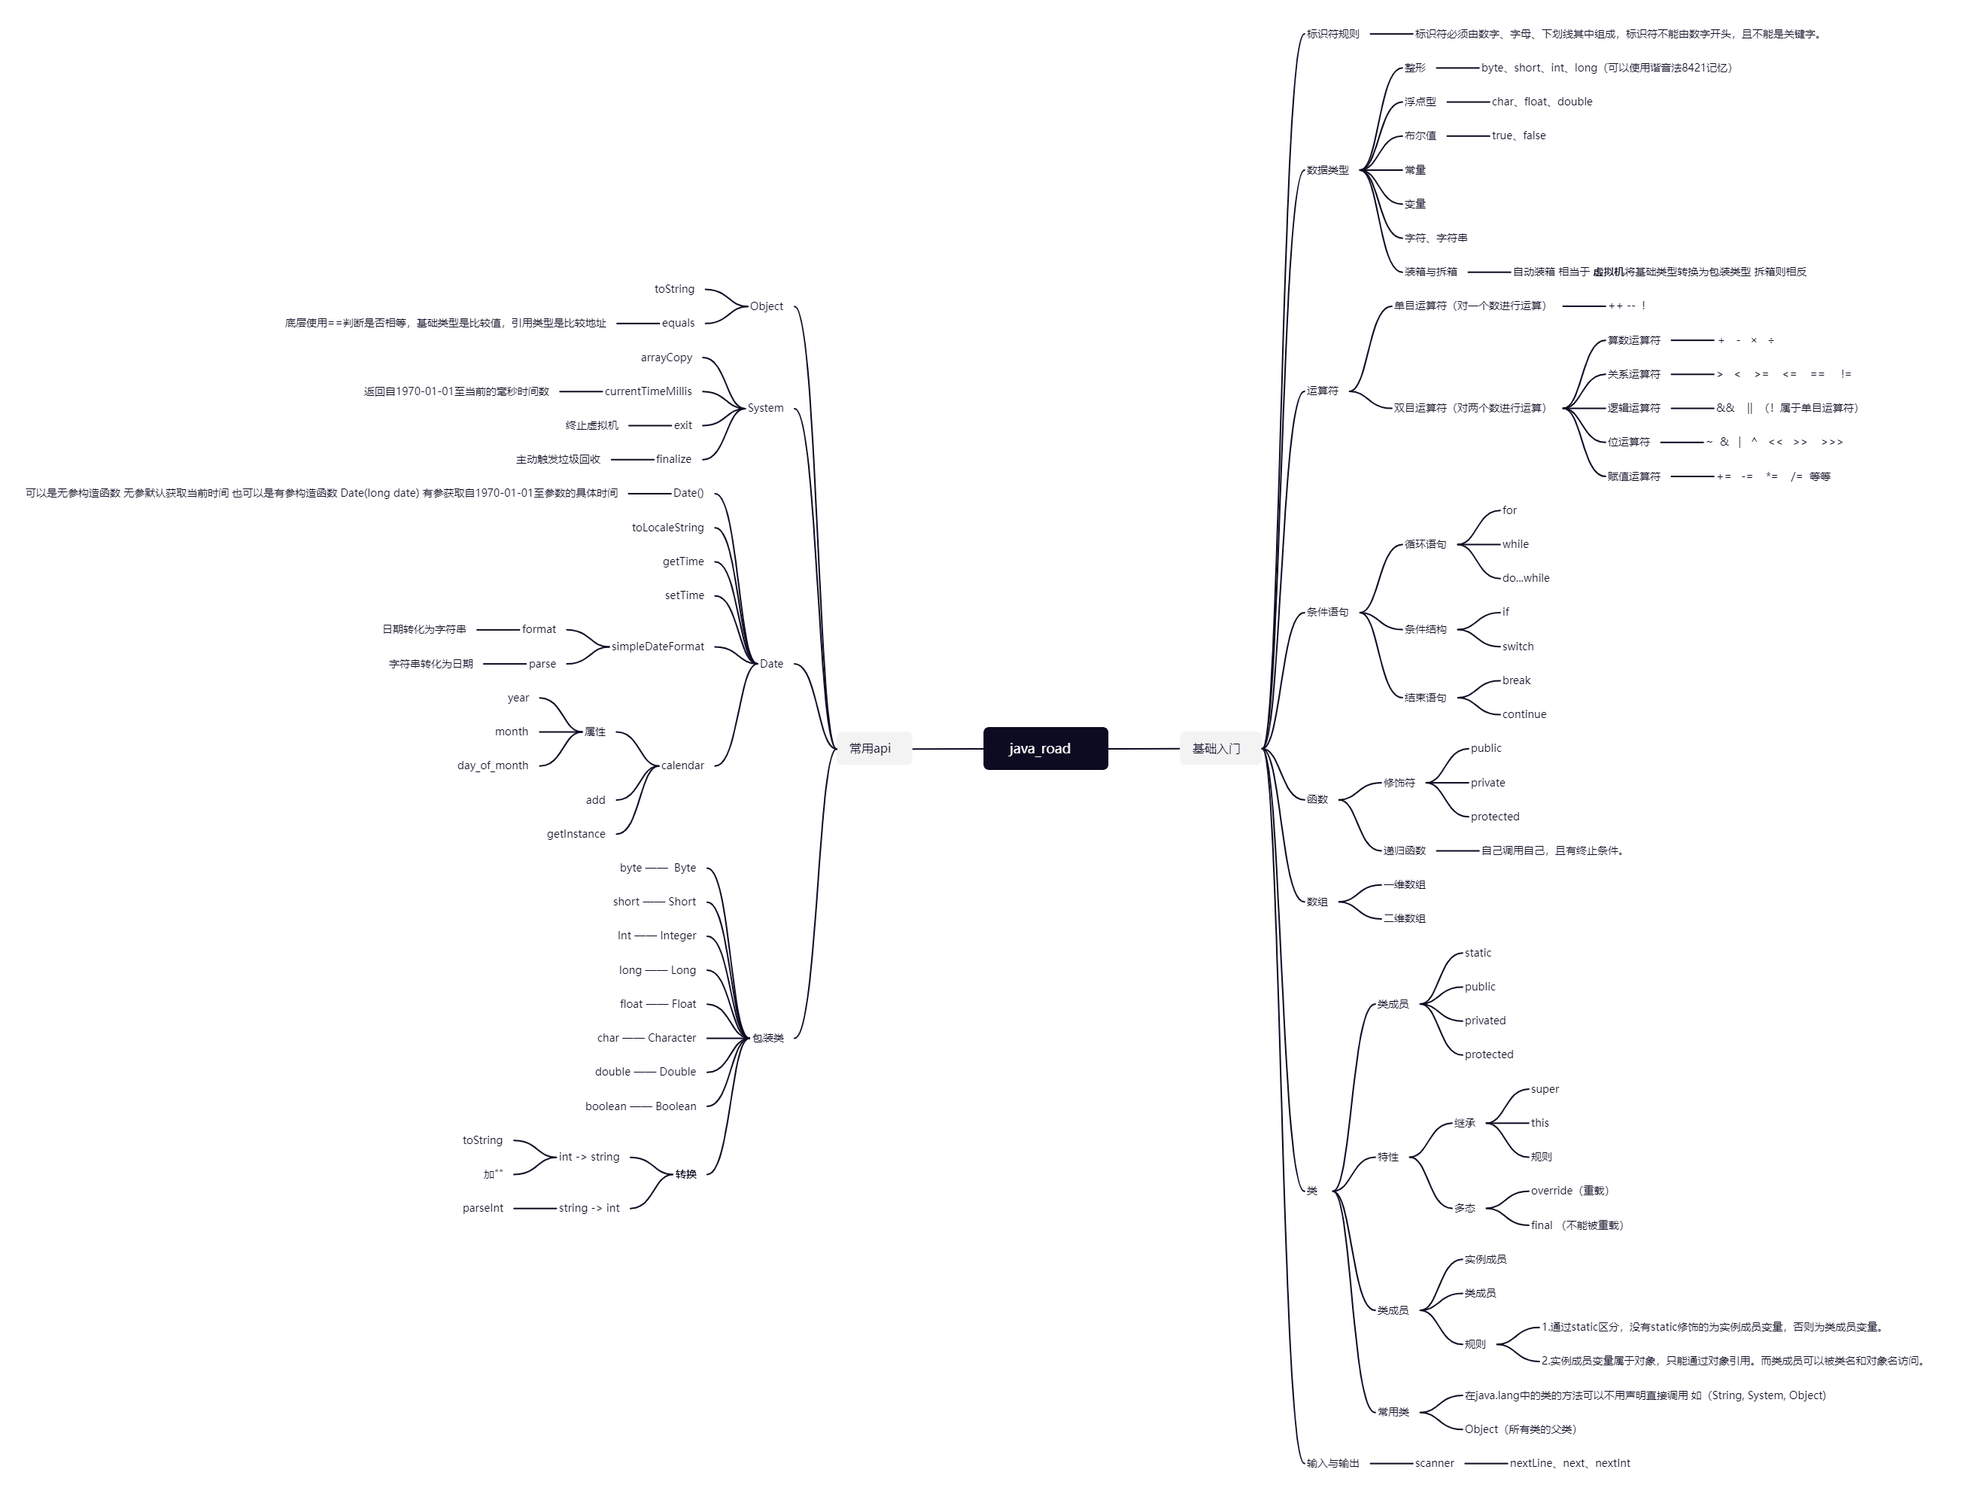
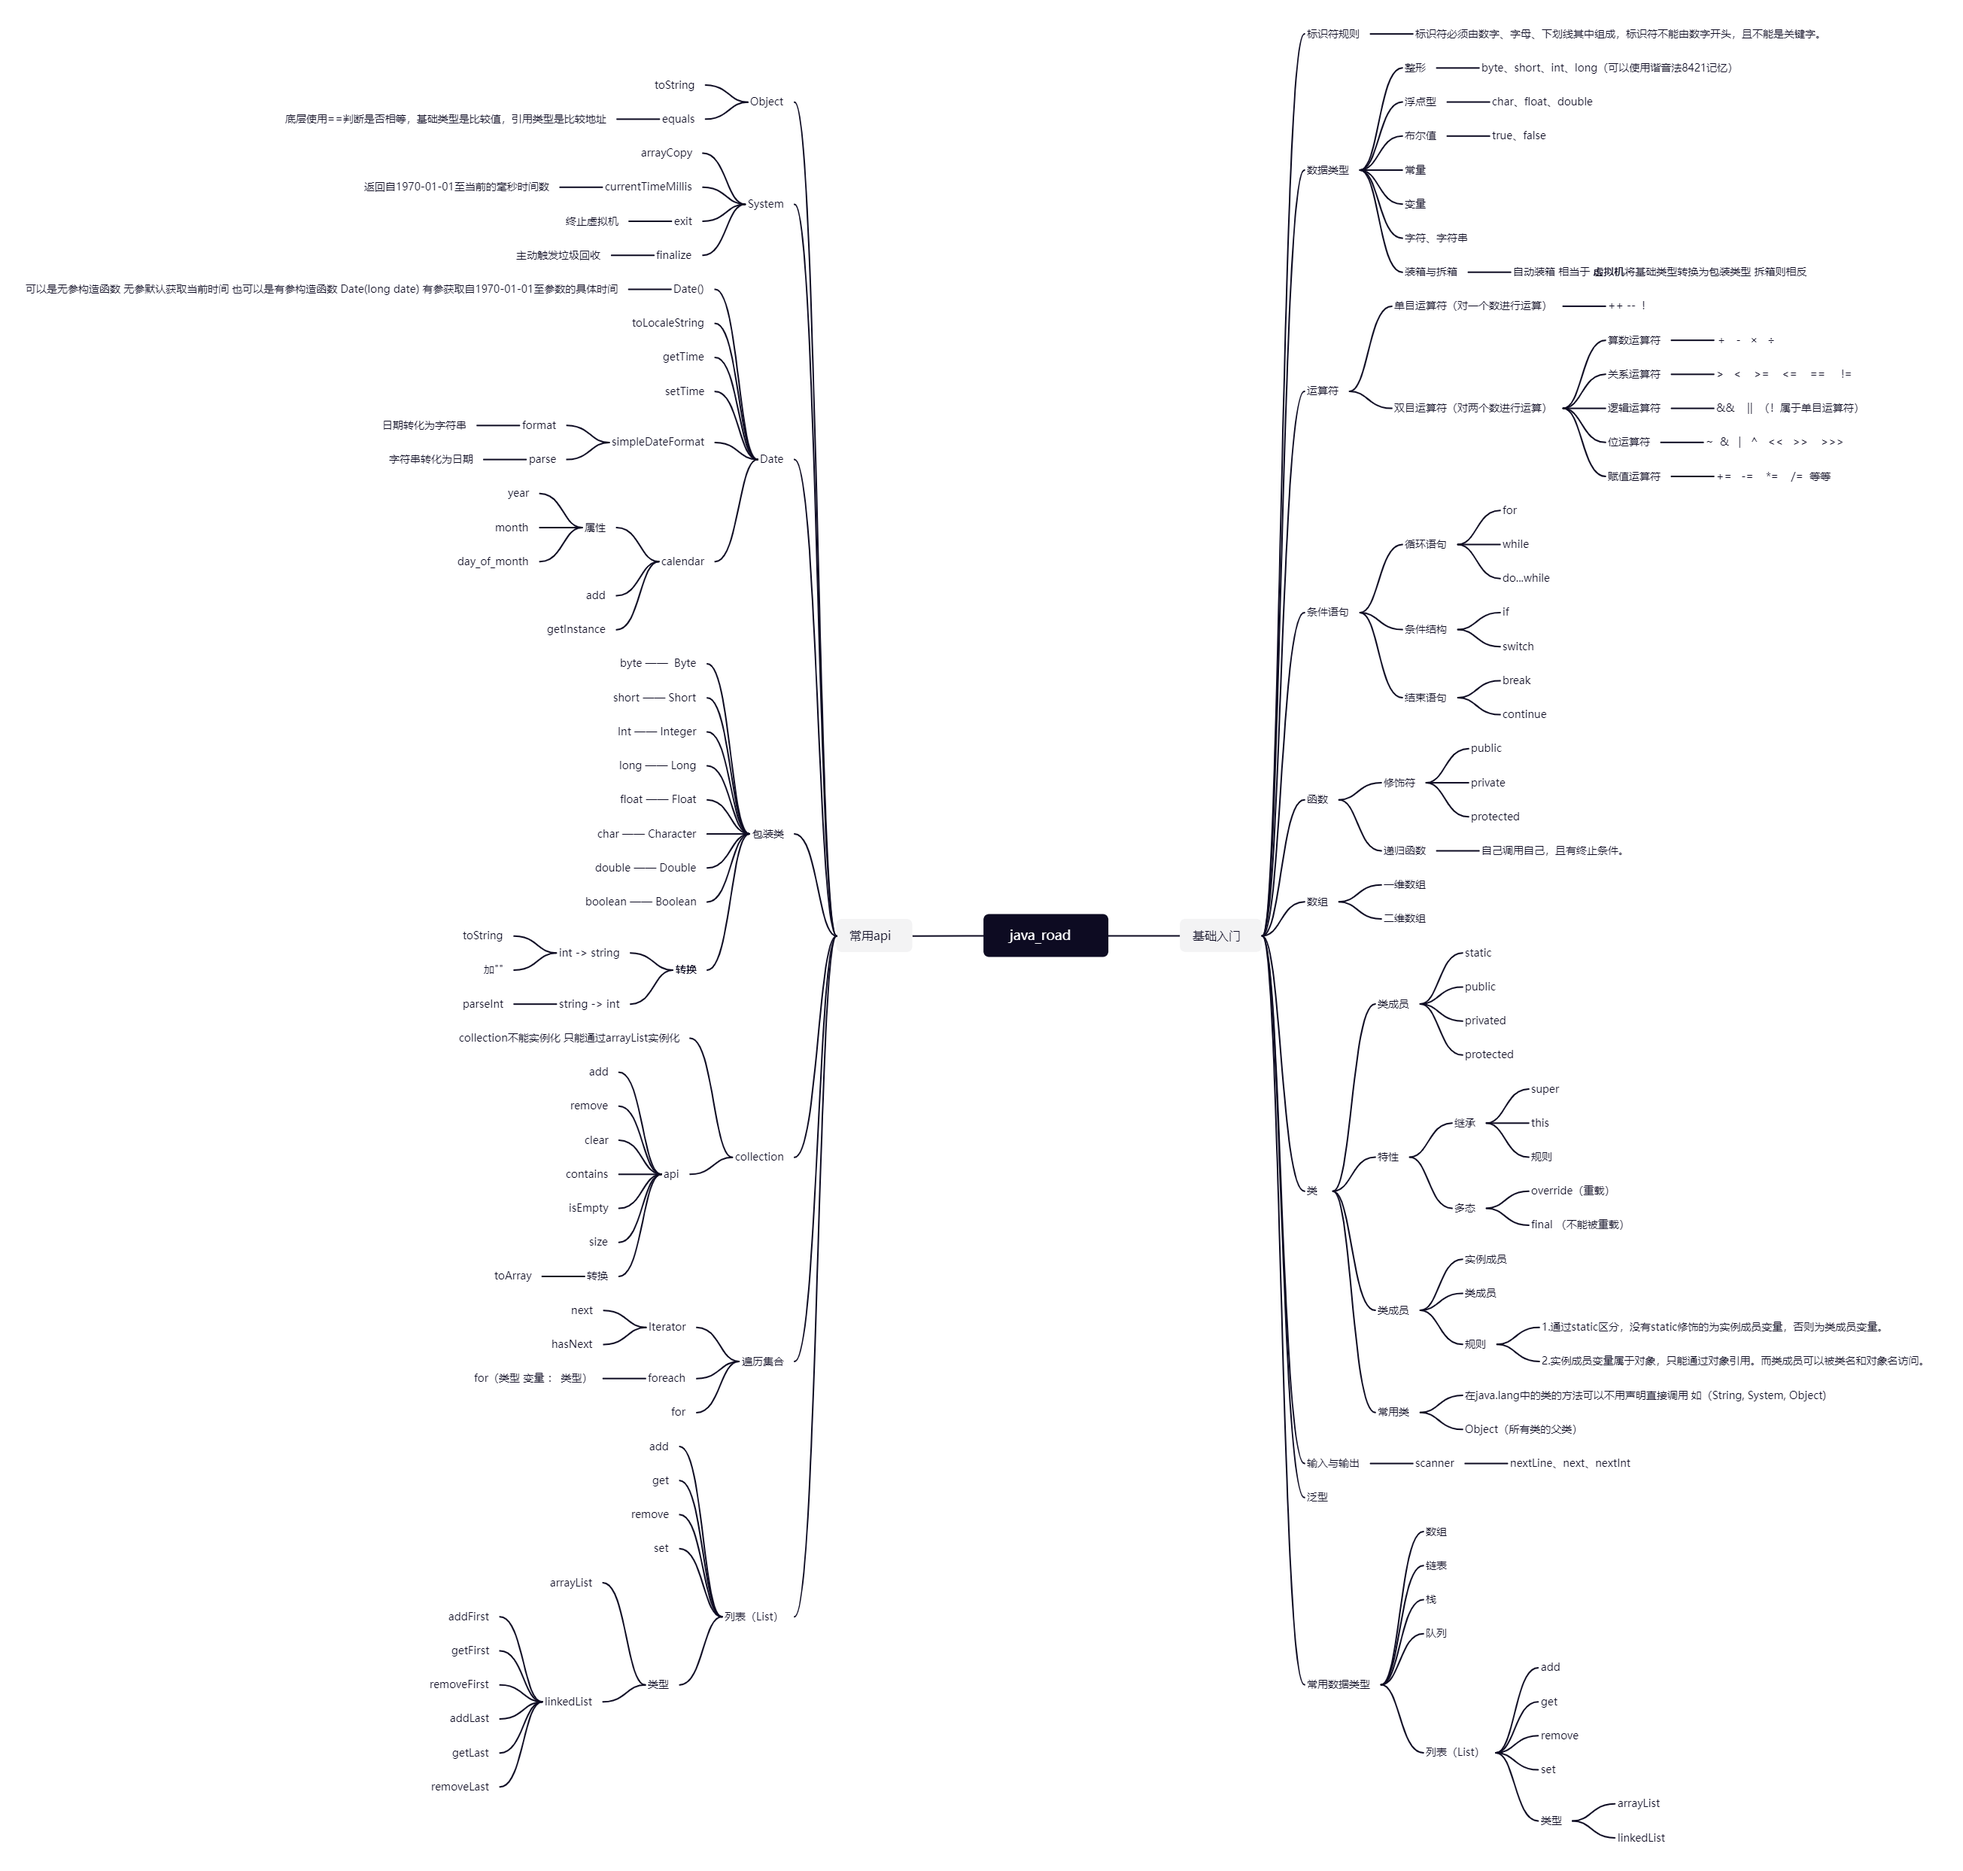
更新

diff --git a/README.md b/README.md
@@ -10,5 +10,7 @@
 | 2023-07-22 |java的基础入门|
 | 2023-07-23 |条件语句、函数、数组的基本使用|
 | 2023-07-25 |类的原理理解以及基本使用|
-| 2023-07-28 |学习java常用api|
+| 2023-07-27 |学习java常用api|
+| 2023-07-28 |了解泛型、集合等数据类型以及常用api|
+|  ||
 
